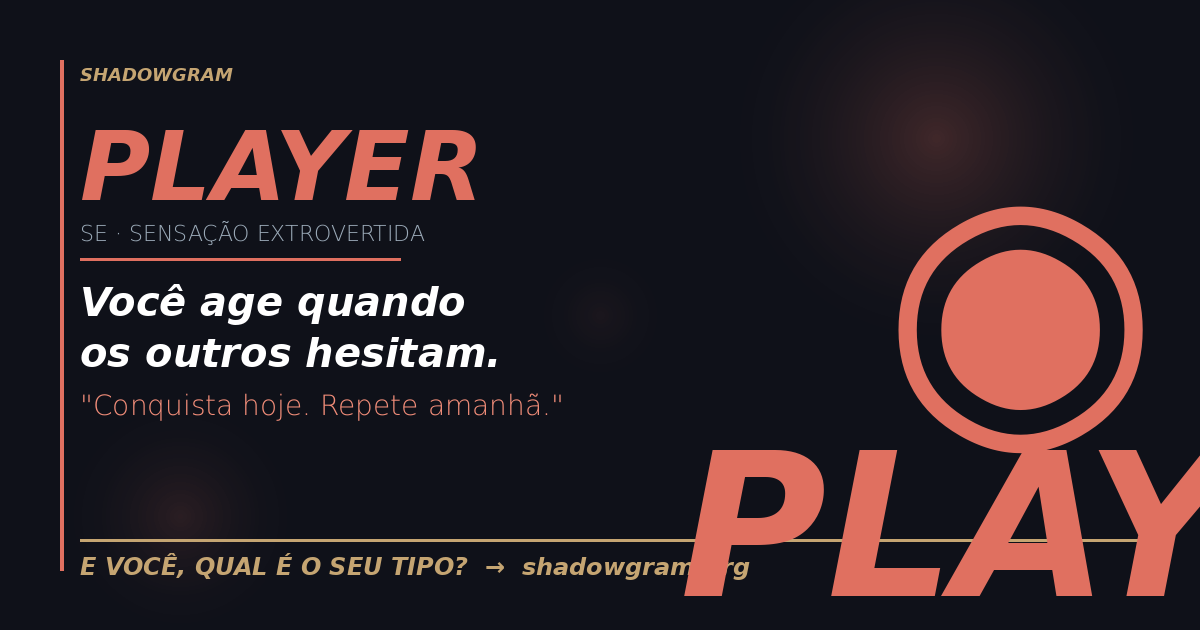
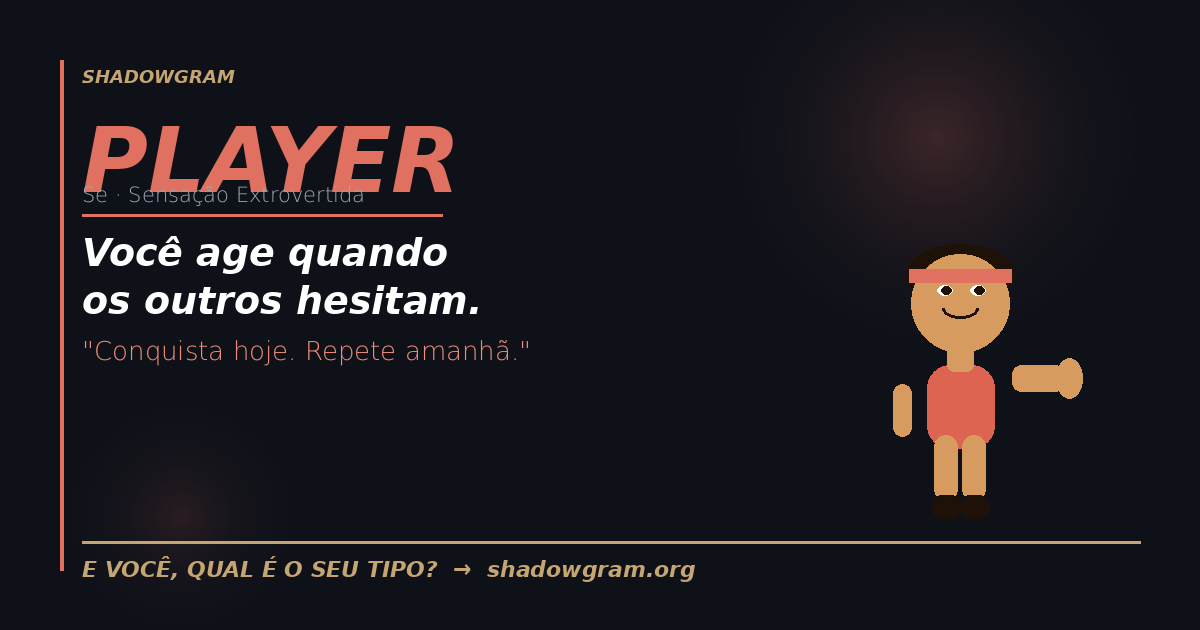
feat: 8유형 캐릭터 이미지 + Midjourney 프롬프트 추가
- share_images/: 유형별 캐릭터 인물(브라질 mixed-race) 포즈 삽입
  SPARK(팔 올림/번개), VISION(명상/제3의눈), STEADY(뿌리),
  PLAYER(펀치/헤드밴드), HARMONY(꽃/팔벌림), SOUL(달/안기),
  LOGIC(안경/생각), LEADER(왕관/당당)
- MIDJOURNEY_PROMPTS.md: 고품질 외부 생성용 프롬프트 8개
  (배경 제거 후 char_유형.png로 교체 시 자동 합성 가능)

diff --git a/MIDJOURNEY_PROMPTS.md b/MIDJOURNEY_PROMPTS.md
@@ -1,0 +1,108 @@
+# Shadowgram — Midjourney 캐릭터 프롬프트
+## 브라질 문화 반영 · 8유형별 캐릭터
+
+---
+
+### 공통 설정 (모든 유형에 적용)
+```
+--style raw --v 6.1 --ar 1:1
+```
+**공통 스타일 프리픽스:**
+```
+flat vector illustration, Brazilian young adult character, mixed-race skin (morena brasileira), dark curly hair, bold minimal design, dark navy background #0F1119, vibrant character, no text, clean white space around character, centered composition
+```
+
+---
+
+## SPARK ⚡
+**컬러:** `#E8A84A` (amber gold)
+```
+flat vector illustration, Brazilian young adult woman, excited energetic pose both arms raised victory, mixed-race morena skin, dark curly hair with golden lightning bolt hair clip, wearing amber golden outfit, dynamic electric sparks around her, wide bright smile, dark navy background, bold minimal design, no text --style raw --v 6.1 --ar 1:1
+```
+**네거티브:** `--no text, words, letters, realistic, photo`
+
+---
+
+## VISION 🔮
+**컬러:** `#8B7BB8` (deep purple)
+```
+flat vector illustration, Brazilian young adult man, meditative calm pose arms crossed, mixed-race skin, dark hair, third eye glowing purple on forehead, wearing deep purple outfit, cosmic swirling galaxy aura around him, mysterious wise expression, dark navy background, bold minimal design, no text --style raw --v 6.1 --ar 1:1
+```
+
+---
+
+## STEADY 🏔
+**컬러:** `#7B9EA8` (steel blue)
+```
+flat vector illustration, Brazilian young adult man, grounded solid stance feet planted, mixed-race moreno skin, brown hair, wearing steel blue outfit, mountain roots growing from feet into ground, calm stoic expression, nature elements, dark navy background, bold minimal design, no text --style raw --v 6.1 --ar 1:1
+```
+
+---
+
+## PLAYER 🎯
+**컬러:** `#E07060` (coral red)
+```
+flat vector illustration, Brazilian young adult man, dynamic action pose throwing punch forward, mixed-race moreno skin, short dark hair with red sports headband, wearing coral red athletic outfit, motion lines speed effect, fierce determined expression, dark navy background, bold minimal design, no text --style raw --v 6.1 --ar 1:1
+```
+
+---
+
+## HARMONY 🌊
+**컬러:** `#D4886A` (warm terracotta)
+```
+flat vector illustration, Brazilian young adult woman, open arms welcoming pose, mixed-race morena skin, dark curly hair with colorful tropical flowers, wearing warm terracotta orange dress, soft light radiating outward, warm caring smile, Brazilian carnival flower aesthetic, dark navy background, bold minimal design, no text --style raw --v 6.1 --ar 1:1
+```
+
+---
+
+## SOUL 🌙
+**컬러:** `#B87BA8` (mauve purple)
+```
+flat vector illustration, Brazilian young adult woman, introspective hugging herself pose, mixed-race morena skin, dark wavy hair, glowing crescent moon beside her head, wearing deep mauve purple outfit, soft dreamy starlight aura, deep melancholic expression, dark navy background, bold minimal design, no text --style raw --v 6.1 --ar 1:1
+```
+
+---
+
+## LOGIC 🔬
+**컬러:** `#5B9EA0` (teal)
+```
+flat vector illustration, Brazilian young adult man, thinking pose hand on chin, mixed-race moreno skin, neat dark hair, round geometric teal glasses, wearing teal outfit, hexagonal geometric patterns floating around him, focused analytical expression, dark navy background, bold minimal design, no text --style raw --v 6.1 --ar 1:1
+```
+
+---
+
+## LEADER 👑
+**컬러:** `#6B8E6B` (forest green)
+```
+flat vector illustration, Brazilian young adult man, confident hands-on-hips leader pose, mixed-race moreno skin, dark hair, golden crown on head, wearing forest green business casual outfit, subtle authority aura radiating outward, determined strong expression, dark navy background, bold minimal design, no text --style raw --v 6.1 --ar 1:1
+```
+
+---
+
+## 완성 후 교체 방법
+
+1. Midjourney에서 각 캐릭터 생성 (1:1 비율)
+2. 배경 제거: remove.bg 또는 Photoshop
+3. `share_images/` 폴더에 아래 파일명으로 저장:
+   ```
+   char_SPARK.png
+   char_VISION.png
+   char_STEADY.png
+   char_PLAYER.png
+   char_HARMONY.png
+   char_SOUL.png
+   char_LOGIC.png
+   char_LEADER.png
+   ```
+4. Claude에게 "캐릭터 이미지를 hero/og에 합성해줘" 요청
+   → 자동으로 기존 배경에 캐릭터를 오버레이
+
+---
+
+## Adobe Firefly / Canva AI 버전 (더 간단)
+
+```
+Brazilian mixed-race young adult character, [유형별 포즈 설명],
+flat design illustration style, transparent background,
+bold colors [유형 컬러], minimal aesthetic
+```
